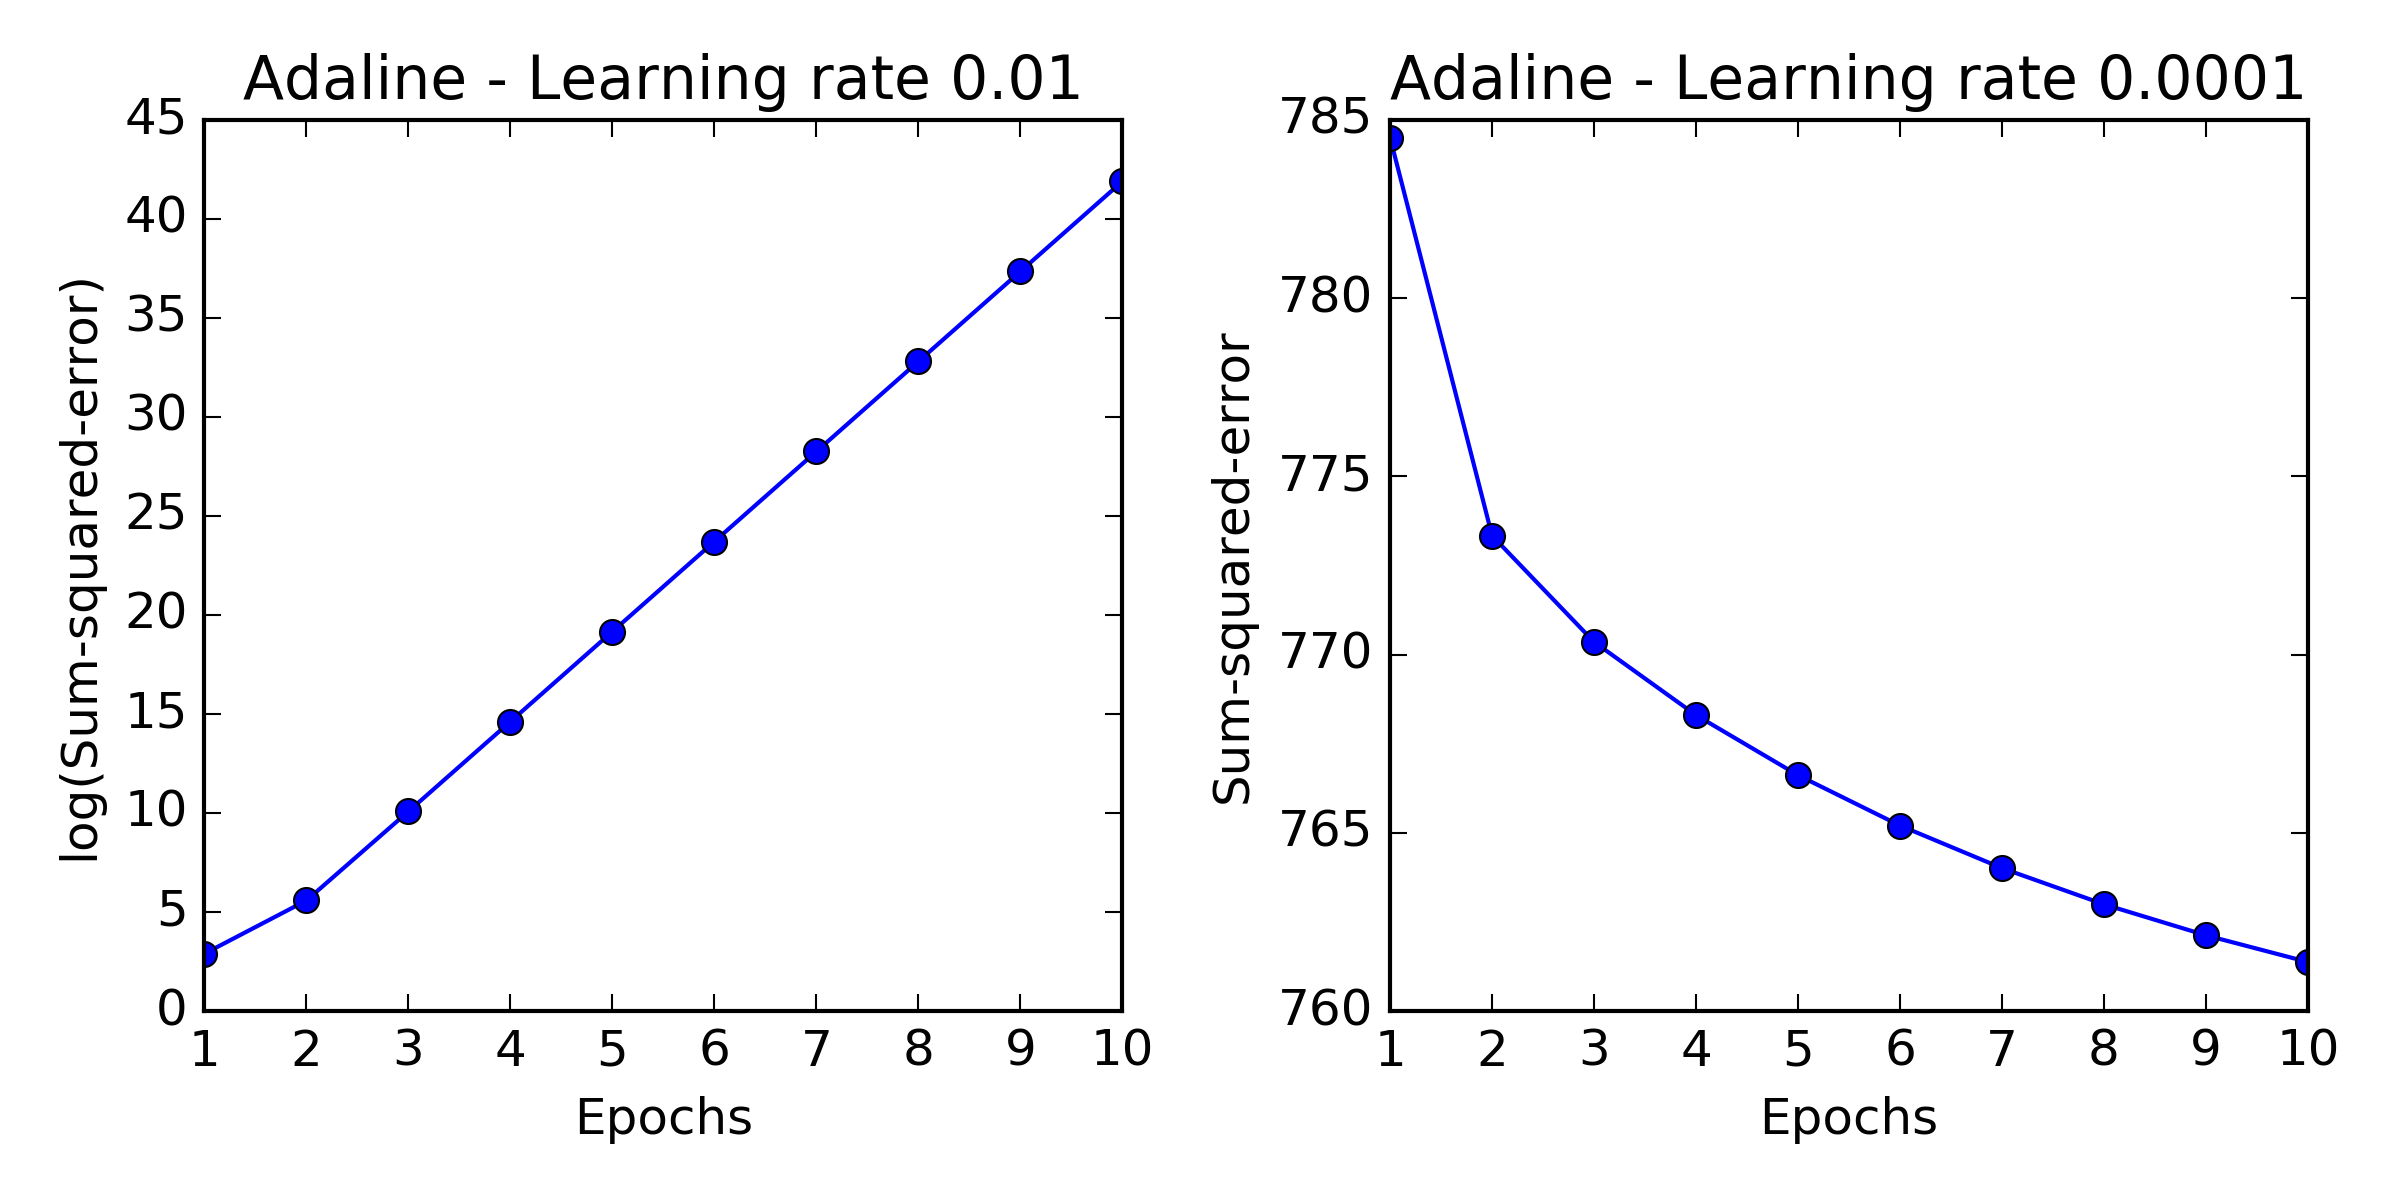
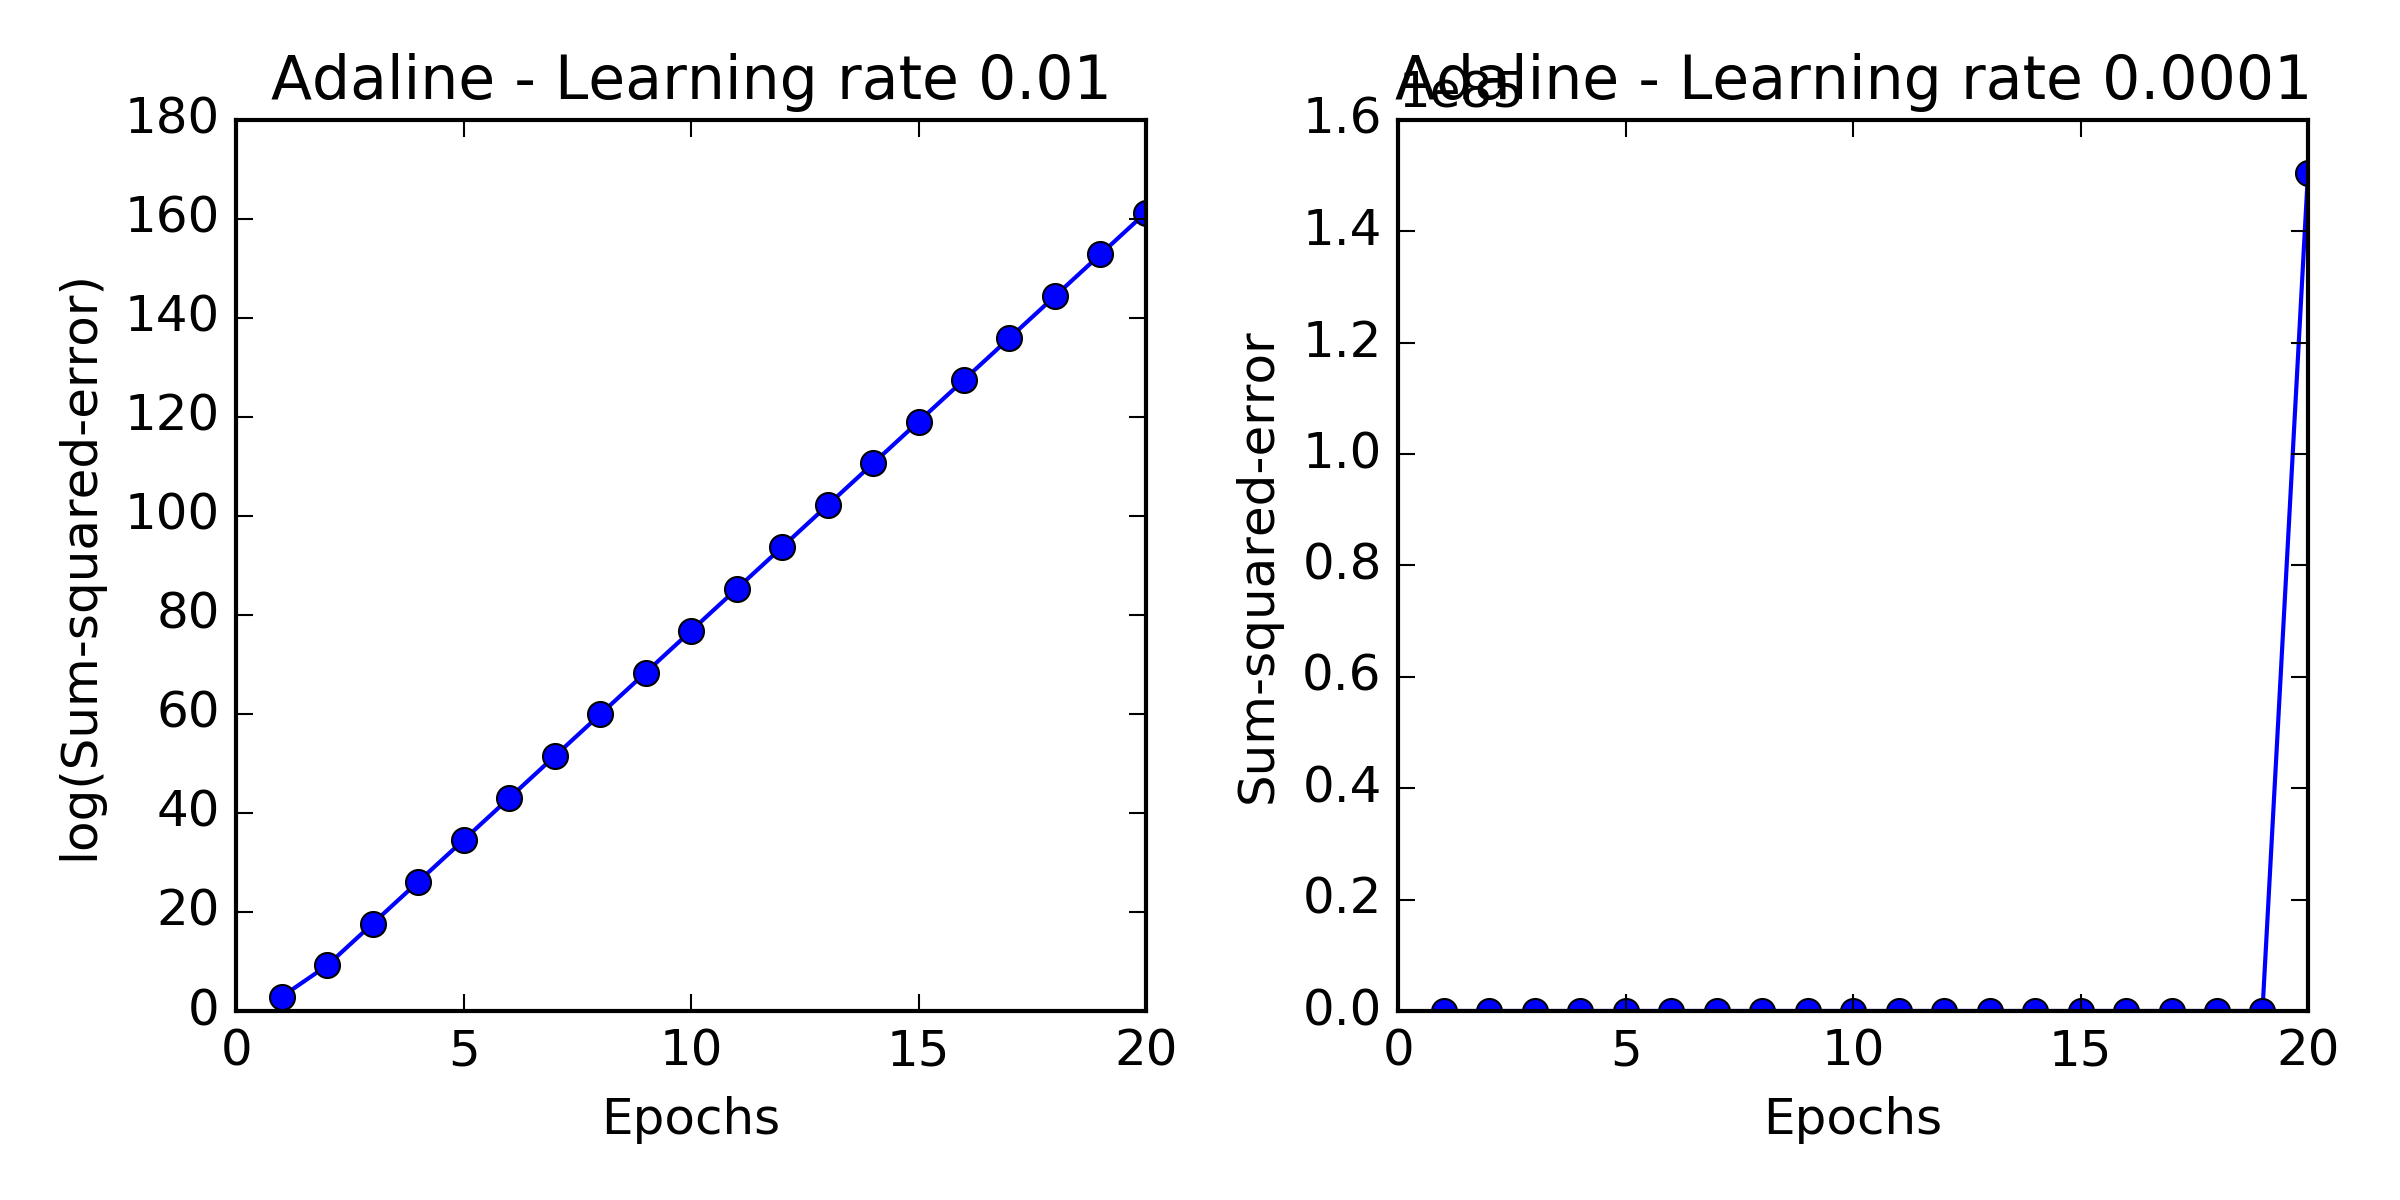
making progress, need to figure out the stochastic gradient descent issue, and how to use the partial fit

diff --git a/app/equity/ml_eqs/run_ml.py b/app/equity/ml_eqs/run_ml.py
@@ -6,8 +6,8 @@ import matplotlib.pyplot as plt
 import datetime, pdb, time
 import numpy as np
 import pandas as pd
-from sklearn.cross_validation import train_test_split
 from app import app
+from app.utils.helper_funcs import timeme
 from app.equity.screener_eqs.equity_screener import get_data
 from app.equity.screener_eqs.equity_stats import EquityStats, ES_Dataframe
 from app.equity.analysis_eqs.utils_analysis import loadDataToDB, getKeyStatsDataFrame
@@ -15,6 +15,7 @@ from app.equity.data_grab import ms_dg_helper
 from app.utils.db_utils import DBHelper
 from app.equity.ml_eqs.perceptron import Perceptron
 from app.equity.ml_eqs.adalinegd import AdalineGD
+from app.equity.ml_eqs.adalinesgd import AdalineSGD
 from app.equity.ml_eqs.ml_utils import plot_decision_regions
 
 IMG_PATH = '/home/ubuntu/workspace/finance/app/static/img/ml_imgs/'
@@ -33,13 +34,13 @@ def run(inputs, load_data=False):
     app.logger.info("Done Retrieving data, took {0} seconds".format(t1-t0))
     print("Done Retrieving data, took {0} seconds".format(t1-t0))
     df = removeUnnecessaryColumns(df)
-    df = addTarget(df)
+    df = timeme(addTarget)(df)
     df = cleanData(df)
     df = selectInputs(df, inputs)
 
     # Run Perceptron
     # run_perceptron(df)
-    run_adalinegd(df)
+    timeme(run_adalinesgd)(df)
 
 
 def selectInputs(df, inputs):
@@ -76,6 +77,7 @@ def removeUnnecessaryColumns(df):
     return df
 
 def cleanData(df):
+    # To filter out errant data
     df = df[df['trailingPE'] != 0]
     df = df[df['priceToBook'] > 0]
     df = df[df['priceToSales'] != 0]
@@ -85,6 +87,8 @@ def cleanData(df):
     df = df[abs(df['trailingPE']) < 200]
     df = df[abs(df['priceToBook']) < 10]
     df = df[df['trailingPE'] > 0]
+    df = df[df['divYield'] > 0]
+    df = df[df['debtToEquity'] < 5]
     return df
 
 def run_perceptron(df, eta=0.1, n_iter=10):
@@ -130,19 +134,20 @@ def run_perceptron(df, eta=0.1, n_iter=10):
     t1 = time.time()
     app.logger.info("Done training data and creating charts, took {0} seconds".format(t1-t0))
     print("Done training data and creating charts, took {0} seconds".format(t1-t0))
-    
-def run_adalinegd(df, eta=0.1, n_iter=10):
-    t0 = time.time()
+
+def run_adalinegd_lr_example(df, eta=0.1, n_iter=10):
+    # Learning rate too high - overshoot global min
     y = df['target']
-    X = df[['divYield','priceToBook']]
+    X = df[['trailingPE','priceToBook']]
     fig, ax = plt.subplots(nrows=1, ncols=2, figsize=(8, 4))
-    ada1 = AdalineGD(n_iter=10, eta=0.01).fit(X, y)
+    ada1 = AdalineGD(n_iter=20, eta=0.01).fit(X, y)
     ax[0].plot(range(1, len(ada1.cost_) + 1), np.log10(ada1.cost_), marker='o')
     ax[0].set_xlabel('Epochs')
     ax[0].set_ylabel('log(Sum-squared-error)')
     ax[0].set_title('Adaline - Learning rate 0.01')
     
-    ada2 = AdalineGD(n_iter=10, eta=0.0001).fit(X, y)
+    # Learning rate too low - takes forever
+    ada2 = AdalineGD(n_iter=20, eta=0.0001).fit(X, y)
     ax[1].plot(range(1, len(ada2.cost_) + 1), ada2.cost_, marker='o')
     ax[1].set_xlabel('Epochs')
     ax[1].set_ylabel('Sum-squared-error')
@@ -153,13 +158,46 @@ def run_adalinegd(df, eta=0.1, n_iter=10):
     plt.close()
     # plt.show()
     
+def run_adalinesgd(df, eta=0.1, n_iter=10):
+    y = df['target']
+    X = df[['returnOnEquity','debtToEquity']]
+    
     # standardize features
     X_std = np.copy(X.values)
-    pdb.set_trace()
-    X_std[:,0] = (X.values[:,0] - X.values[:,0].mean()) / X.values[:,0].std()
-    X_std[:,1] = (X.values[:,1] - X.values[:,1].mean()) / X.values[:,1].std()
+    # X_std[:,0] = (X.values[:,0] - X.values[:,0].mean()) / X.values[:,0].std()
+    # X_std[:,1] = (X.values[:,1] - X.values[:,1].mean()) / X.values[:,1].std()
     
-    ada = AdalineGD(n_iter=15, eta=0.01)
+    ada = AdalineSGD(n_iter=15, eta=0.001, random_state=1)
+    ada.fit(X_std, y)
+    # ada.partial_fit(X_std[0, :], y[0])
+    
+    plot_decision_regions(X_std, y.values, classifier=ada)
+    plt.title('Adaline - Gradient Descent')
+    plt.xlabel(list(X.columns)[0])
+    plt.ylabel(list(X.columns)[1])
+    plt.legend(loc='upper left')
+    plt.tight_layout()
+    plt.savefig(IMG_PATH + 'adalinesgd.png', dpi=300)
+    plt.close()
+    
+    plt.plot(range(1, len(ada.cost_) + 1), ada.cost_, marker='o')
+    plt.xlabel('Epochs')
+    plt.ylabel('Sum-squared-error')
+    plt.tight_layout()
+    plt.savefig(IMG_PATH + 'adalinesgd_gd.png', dpi=300)
+    plt.close()
+
+
+def run_adalinegd(df, eta=0.1, n_iter=10):
+    y = df['target']
+    X = df[['returnOnEquity','debtToEquity']]
+    
+    # standardize features
+    X_std = np.copy(X.values)
+    # X_std[:,0] = (X.values[:,0] - X.values[:,0].mean()) / X.values[:,0].std()
+    # X_std[:,1] = (X.values[:,1] - X.values[:,1].mean()) / X.values[:,1].std()
+    
+    ada = AdalineGD(n_iter=15, eta=0.00001)
     ada.fit(X_std, y)
     
     plot_decision_regions(X_std, y.values, classifier=ada)
@@ -179,7 +217,6 @@ def run_adalinegd(df, eta=0.1, n_iter=10):
     plt.close()
 
 
-
-
 if __name__ == "__main__":
-    run(['trailingPE', 'priceToBook', 'priceToSales', 'divYield'])
+    run(['trailingPE', 'priceToBook', 'priceToSales', 'divYield', 'debtToEquity',
+        'returnOnEquity', 'netIncomeMargin'])

diff --git a/app/equity/ml_eqs/adalinesgd.py b/app/equity/ml_eqs/adalinesgd.py
@@ -1,0 +1,111 @@
+import pdb
+import matplotlib as mpl
+mpl.use('Agg')
+import pandas as pd
+import matplotlib.pyplot as plt
+import numpy as np
+from numpy.random import seed
+from app.equity.ml_eqs.ml_utils import update_check
+    
+class AdalineSGD(object):
+    """ADAptive LInear NEuron classifier.
+
+    Parameters
+    ------------
+    eta : float
+        Learning rate (between 0.0 and 1.0)
+    n_iter : int
+        Passes over the training dataset.
+
+    Attributes
+    -----------
+    w_ : 1d-array
+        Weights after fitting.
+    errors_ : list
+        Number of misclassifications in every epoch.
+    shuffle : bool (default: True)
+        Shuffles training data every epoch if True to prevent cycles.
+    random_state : int (default: None)
+        Set random state for shuffling and initializing the weights.
+        
+    """
+    def __init__(self, eta=0.01, n_iter=10, shuffle=True, random_state=None):
+        self.eta = eta
+        self.n_iter = n_iter
+        self.w_initialized = False
+        self.shuffle = shuffle
+        if random_state:
+            seed(random_state)
+        
+    def fit(self, X, y):
+        """ Fit training data.
+
+        Parameters
+        ----------
+        X : {array-like}, shape = [n_samples, n_features]
+            Training vectors, where n_samples is the number of samples and
+            n_features is the number of features.
+        y : array-like, shape = [n_samples]
+            Target values.
+
+        Returns
+        -------
+        self : object
+
+        """
+        self._initialize_weights(X.shape[1])
+        self.cost_ = []
+        pdb.set_trace()
+        for i in range(self.n_iter):
+            if self.shuffle:
+                X, y = self._shuffle(X, y)
+            cost = []
+            for xi, target in zip(X, y):
+                # update weights "on-the-fly" after each sample unlike gradient descent
+                cost.append(self._update_weights(xi, target))
+            avg_cost = sum(cost)/len(y)
+            self.cost_.append(avg_cost)
+        return self
+
+    def partial_fit(self, X, y):
+        """Fit training data without reinitializing the weights"""
+        if not self.w_initialized:
+            self._initialize_weights(X.shape[1])
+        if y.ravel().shape[0] > 1:
+            for xi, target in zip(X, y):
+                self._update_weights(xi, target)
+        else:
+            self._update_weights(X, y)
+        return self
+
+    def _shuffle(self, X, y):
+        """Shuffle training data"""
+        r = np.random.permutation(len(y))
+        return X[r], y[r]
+    
+    def _initialize_weights(self, m):
+        """Initialize weights to zeros"""
+        self.w_ = np.zeros(1 + m)
+        self.w_initialized = True
+        
+    def _update_weights(self, xi, target):
+        """Apply Adaline learning rule to update the weights"""
+        output = self.net_input(xi)
+        error = (target - output)
+        self.w_[1:] += self.eta * xi.dot(error)
+        self.w_[0] += self.eta * error
+        cost = 0.5 * error**2
+        print(str(self.w_) + "----" + str(xi))
+        return cost
+    
+    def net_input(self, X):
+        """Calculate net input"""
+        return np.dot(X, self.w_[1:]) + self.w_[0]
+
+    def activation(self, X):
+        """Compute linear activation"""
+        return self.net_input(X)
+
+    def predict(self, X):
+        """Return class label after unit step"""
+        return np.where(self.activation(X) >= 0.0, 1, -1)

diff --git a/app/equity/ml_eqs/adalinegd.py b/app/equity/ml_eqs/adalinegd.py
@@ -50,6 +50,8 @@ class AdalineGD(object):
             errors = (y - output)
             temp = tuple(self.w_)
             # Updates weights based on how far off prediciton is, unlike perceptron
+            # Updates the weights once for the entire iteration of data unlike perceptron
+            # which does it for each sample
             self.w_[1:] += self.eta * X.T.dot(errors)
             self.w_[0] += self.eta * errors.sum()
             if update_check(temp, self.w_):

diff --git a/app/utils/helper_funcs.py b/app/utils/helper_funcs.py
@@ -1,7 +1,16 @@
-import datetime
+import datetime, time
 
 def stringify(strs):
     if isinstance(strs, list):
         return ["'" + str(a) + "'" for a in strs]
     else:
         return "'" + strs + "'"
+
+def timeme(method):
+    def wrapper(*args, **kw):
+        startTime = round(time.time() * 1000, 3)
+        result = method(*args, **kw)
+        endTime = round(time.time() * 1000, 3)
+        print(endTime - startTime,'ms')
+        return result
+    return wrapper

diff --git a/app/futures/analysis_fut/futures_curve.py b/app/futures/analysis_fut/futures_curve.py
@@ -110,7 +110,7 @@ if __name__ == '__main__':
     curves = []
     for f in fut:
         curves.append([getFuturesCurve(f, end=end), f])
-    chartCurveDiffAxis(curves)
+    chartCurveSameAxis(curves)
     
     
     
